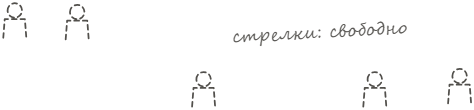
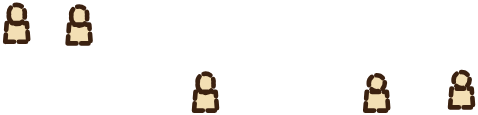
Make the empty rifle crew spot readable at the user's page scale

diff --git a/web/js/panel.js b/web/js/panel.js
@@ -122,9 +122,12 @@ export function makePanel(root, M, data, art, blueprint, flags, cards = {}) {
             view.side[n] = image(sheet, 'malakai_' + n, WEB_ART + 'malakai_' + n + '.png', q[0] * scale, q[1] * scale, q[2] * scale, q[3] * scale);
         }
     }
-    // The riflemen's place on the drawing (blueprint.json, crew_area): part of the drawing, not a button. Nobody: dashed pencil outlines at the rail and a
-    // pencil note; a crew: its figures in ink, a layer per kind; under the mouse thin dashed frames round the two rows, in soft ink. A click opens the
-    // choice. It lies over Malakai's own figure, which stands at one of the rifle places and is not among the layers' five.
+    // The riflemen's place on the drawing (blueprint.json, crew_area): part of the drawing, not a button, and seen as a place to click at the scale the
+    // page really has on a screen (about 0.6; tools/web_art.py sizes its lines and the tag's text for 0.5). Nobody: light cut-outs of the figures in a
+    // dashed ink line; a crew: its figures in ink, a layer per kind. Over the waist a tag on a leader, "Стрелки" and a sign in a ring: a plus while the
+    // place is empty, two arrows when a crew stands (it can be changed). Until the first choice the tag has a warm pulse, the same as Malakai's empty
+    // side. Under the mouse: dashed frames round the two rows in soft ink and the tag's slip lighter; the whole box takes the click, the gaps too.
+    // It lies over Malakai's own figure, which stands at one of the rifle places and is not among the layers' five.
     const ca = blueprint.crew_area, cbox = art.crew_area && art.crew_area.area;
     if (ca && cbox && data.groups[ca.group]) {
         const group = data.groups[ca.group], ax = cbox[0] * scale, ay = cbox[1] * scale;
@@ -134,23 +137,48 @@ export function makePanel(root, M, data, art, blueprint, flags, cards = {}) {
         area.SetInteractive(true);
         const lay = name => { const q = place(name); const c = image(area, name, WEB_ART + name + '.png', q[0] * scale - ax, q[1] * scale - ay, q[2] * scale, q[3] * scale); c.SetPassive(); return c; };
         const crew = view.crewArea = {spec: ca, area, group: ca.group, building: M.prefix + ca.building, layers: {}, open: false};
-        crew.hover = lay(`crew_${ca.group}_hover`);
-        area.SetHoverChild(crew.hover);
+        // the pulse first, under the tag: one picture a phase, switched by a timer (GAME: SetState by core:get_tm():repeat_real_callback, as the side's)
+        const g = art.crew_area.glow;
+        crew.glow = image(area, 'crew_glow', WEB_ART + 'crew_glow_0.png', g.box[0] * scale - ax, g.box[1] * scale - ay, g.box[2] * scale, g.box[3] * scale);
+        crew.glow.SetPassive();
+        crew.glow.phases = [];
+        for (let i = 1; i < g.phases; i++) {
+            const ph = image(crew.glow, 'phase_' + i, WEB_ART + `crew_glow_${i}.png`, 0, 0, g.box[2] * scale, g.box[3] * scale);
+            ph.SetVisible(false);
+            crew.glow.phases.push(ph);
+        }
+        crew.glow.img.style.visibility = 'visible';
+        crew.phase = 0;
+        setInterval(() => {
+            crew.phase = (crew.phase + 1) % g.phases;
+            crew.glow.img.style.visibility = crew.phase === 0 ? 'visible' : 'hidden';
+            crew.glow.phases.forEach((ph, i) => ph.SetVisible(crew.phase === i + 1));
+        }, art.crew_area.step_ms);
         crew.empty = lay(`crew_${ca.group}_empty`);
+        crew.tags = {plus: lay(`crew_${ca.group}_tag_plus`), swap: lay(`crew_${ca.group}_tag_swap`)};
+        // what shows under the mouse, in one holder: the frames and the lighter tag of the state
+        crew.hover = make(area, 'hover', 'hover_holder');
+        size(crew.hover, cbox[2] * scale, cbox[3] * scale);
+        crew.hover.SetPassive();
+        const inHover = name => { const q = place(name); return image(crew.hover, name, WEB_ART + name + '.png', q[0] * scale - ax, q[1] * scale - ay, q[2] * scale, q[3] * scale); };
+        inHover(`crew_${ca.group}_hover`);
+        crew.hoverTags = {plus: inHover(`crew_${ca.group}_tag_plus_hover`), swap: inHover(`crew_${ca.group}_tag_swap_hover`)};
+        area.SetHoverChild(crew.hover);
         for (const key of Object.keys(group.options)) if (key !== group.start && art.places[`crew_${ca.group}_${key}`]) crew.layers[key] = lay(`crew_${ca.group}_${key}`);
         // The choice: a window of the same family as the demo window of Malakai's side (the panel's dark backing, a brass head, the frame's edge),
         // under the place. Every kind the buildings can open, as the army panel's unit card in the crew's colour with the number aboard; a kind not
         // opened yet is grey under a padlock, as the game shows a unit that cannot be recruited yet, and its tooltip names the building.
         const options = M.crew_options(ca.group);
-        const pad = 16, slot_w = 88, pw = pad * 2 + slot_w * options.length, ph = pad + 28 + 8 + UNIT_H + 6 + 34 + 50 + 24 + pad;
-        const pick = image(sheet, 'mtb_crew_pick', LAYOUTS + 'backdrop.png', Math.min(ax, scheme_w - pw - 12), ay + cbox[3] * scale + 14, pw, ph);
+        // the frame's edge picture is 30 wide: everything keeps 26 clear of the window's sides, the foot line 30 of its lower edge
+        const pad = 26, slot_w = 106, pw = pad * 2 + slot_w * options.length, ph = pad + 28 + 4 + UNIT_H + 4 + 42 + 42 + 26;
+        const pick = image(sheet, 'mtb_crew_pick', LAYOUTS + 'backdrop.png', Math.min(ax, scheme_w - pw - 12), Math.min(ay + cbox[3] * scale + 14, scheme_h - ph - 6), pw, ph);      // under the place, inside the drawing
         pick.SetInteractive(true);      // a click on the window itself does nothing and does not reach the drawing
         crew.pick = pick;
-        text(pick, 'pick_head', 'text_head', pad, pad - 4, pw - 2 * pad - 30, 28, ca.head || group.name);
-        const cross = image(pick, CREW_CLOSE, 'ui/skins/default/icon_cross.png', pw - pad - 22, pad - 2, 22, 22);
+        text(pick, 'pick_head', 'text_head', pad, pad - 4, 240, 28, ca.head || group.name);
+        const cross = image(pick, CREW_CLOSE, 'ui/skins/default/icon_cross.png', pw - pad - 24, pad - 2, 22, 22);
         cross.SetInteractive(true);
         crew.slots = options.map((o, i) => {
-            const x = pad + i * slot_w + (slot_w - UNIT_W) / 2, y = pad + 28 + 8;
+            const x = pad + i * slot_w + (slot_w - UNIT_W) / 2, y = pad + 28 + 4;
             const card = o.unit_card ? unitCard(pick, CREW_PICK + o.key, x, y, o.unit_card, group.card_frame || 'gold')
                                      : image(pick, CREW_PICK + o.key, LAYOUTS + 'card_empty.png', x, y, UNIT_W, UNIT_H);
             card.SetInteractive(true);
@@ -159,11 +187,11 @@ export function makePanel(root, M, data, art, blueprint, flags, cards = {}) {
             slot.selected = image(card, 'selected', 'ui/skins/default/unit_card_selected.png', 0, 0, UNIT_W, UNIT_H);
             slot.padlock = image(card, 'padlock', 'ui/skins/default/padlock.png', (UNIT_W - 26) / 2, 46, 26, 33);
             for (const c of [slot.selected, slot.padlock]) c.SetPassive();
-            slot.name = text(pick, 'name_' + o.key, 'text_caption', pad + i * slot_w + 2, y + UNIT_H + 6, slot_w - 4, 32, '');
-            slot.money = text(pick, 'money_' + o.key, 'text_caption_grey', pad + i * slot_w + 2, y + UNIT_H + 6 + 34, slot_w - 4, 48, '');
+            slot.name = text(pick, 'name_' + o.key, 'text_caption', pad + i * slot_w + 2, y + UNIT_H + 4, slot_w - 4, 40, '');
+            slot.money = text(pick, 'money_' + o.key, 'text_caption_grey', pad + i * slot_w + 2, y + UNIT_H + 4 + 42, slot_w - 4, 40, '');
             return slot;
         });
-        crew.foot = text(pick, 'pick_foot', 'text_copper', pad, ph - pad - 18, pw - 2 * pad, 20, '');
+        crew.foot = text(pick, 'pick_foot', 'text_caption_copper', pad + 240, pad - 4, pw - 2 * pad - 240 - 34, 28, '');      // in the head's row, before the cross
         const edge = make(pick, 'pick_edge', 'frame_edge');
         size(edge, pw, ph);
         at(edge, 0, 0);
@@ -757,9 +785,13 @@ function refresh(view, M) {
         c.area.SetVisible(shown);
         if (!shown) c.open = false;
         c.pick.SetVisible(shown && c.open);
-        c.empty.SetVisible(!standing || standing.empty);
+        const nobody = !standing || standing.empty;
+        c.empty.SetVisible(nobody);
+        c.tags.plus.SetVisible(nobody); c.tags.swap.SetVisible(!nobody);
+        c.hoverTags.plus.SetVisible(nobody); c.hoverTags.swap.SetVisible(!nobody);
+        c.glow.SetVisible(M.crew_hint());
         for (const [key, layer] of Object.entries(c.layers)) layer.SetVisible(key === now);
-        c.area.SetTooltipText(c.open ? '' : !standing || standing.empty ? c.spec.free : `${standing.name}: ${standing.unit_card ? standing.unit_card.men + ' у бортов, ' : ''}содержание ${standing.upkeep} за ход`, true);
+        c.area.SetTooltipText(c.open || nobody ? '' : `${standing.name}: ${standing.unit_card ? standing.unit_card.men + ' у бортов, ' : ''}содержание ${standing.upkeep} за ход`, true);
         for (const slot of c.slots) {
             const o = options.find(x => x.key === slot.key), poor = o.unlocked && !o.empty && o.key !== now && M.game.treasury() < o.hire;
             slot.selected.SetVisible(o.key === now);
@@ -767,7 +799,7 @@ function refresh(view, M) {
             slot.card.ShaderTechniqueSet(o.unlocked ? 'normal_t0' : 'set_greyscale_t0');
             slot.card.SetImageColour(255, 255, 255, o.unlocked ? 255 : 0x80);
             slot.name.SetStateText(o.unlocked ? o.name : `[[col:grey]]${o.name}[[/col]]`);
-            slot.money.SetStateText(o.empty ? 'у бортов никого' : !o.unlocked ? `откроет «${o.building.name}»`
+            slot.money.SetStateText(o.empty ? 'у бортов никого' : !o.unlocked ? 'заперто'
                 : `${poor ? '[[col:red]]' : ''}найм ${o.hire}${poor ? '[[/col]]' : ''}\nза ход ${o.upkeep}`);
             slot.card.SetTooltipText(o.empty ? 'Пусто' : !o.unlocked ? `${o.name}\nОткроет постройка «${o.building.name}»` : `${o.name}\n${o.about || ''}`, true);
         }

diff --git a/web/js/main.js b/web/js/main.js
@@ -90,7 +90,7 @@ async function main() {
     M.on_change(update);
     // The page's state lives through a reload: localStorage, one key per stage; the buttons of the bar: build up to the selected building, forget all.
     const saveKey = 'mtb_web_state_' + stageName;
-    const save = () => { try { localStorage.setItem(saveKey, JSON.stringify({...game.snapshot(), side: M.malakai_side(), side_chosen: !M.side_hint(), selected: panel.view.selected, crew: M.crew_snapshot()})); } catch (e) { /* no storage: the page still works */ } };
+    const save = () => { try { localStorage.setItem(saveKey, JSON.stringify({...game.snapshot(), side: M.malakai_side(), side_chosen: !M.side_hint(), selected: panel.view.selected, crew: M.crew_snapshot(), crew_chosen: !M.crew_hint()})); } catch (e) { /* no storage: the page still works */ } };
     M.on_change(save);
     panel.view.onSelect = save;
     try {
@@ -100,6 +100,7 @@ async function main() {
             if (saved.side) M.set_side_silently(saved.side);
             M.set_side_chosen_silently(saved.side_chosen);
             M.set_crew_silently(saved.crew);
+            M.set_crew_chosen_silently(saved.crew_chosen);
             if (saved.selected && M.level(saved.selected)) panel.view.selected = saved.selected;
         }
     } catch (e) { /* a broken or missing save: start fresh */ }

diff --git a/web/js/barge_buildings.js b/web/js/barge_buildings.js
@@ -192,10 +192,15 @@ export function makeBuildings(data, game, parts) {
         if (game.treasury() < o.hire) { message = `Не хватает золота на «${o.name}»: найм ${o.hire}.`; fire(); return {ok: false, why: message}; }
         game.gold -= o.hire;        // GAME: cm:treasury_mod(faction, -hire)
         crew[group] = option;
+        crewChosen = true;
         message = o.empty ? 'Стрелки сошли с бортов.' : `«${o.name}» встают к бортам: найм ${o.hire}, содержание ${o.upkeep} за ход.`;
         fire();
         return {ok: true};
     };
+    // The hint: the place's tag glows until the player chooses a crew once (as the side's hint; GAME: cm:set_saved_value('mtb_crew_chosen', true)).
+    let crewChosen = false;
+    M.crew_hint = () => !crewChosen;
+    M.set_crew_chosen_silently = v => { crewChosen = !!v; };
     M.crew_snapshot = () => ({...crew});
     M.set_crew_silently = saved => { for (const [g, o] of Object.entries(saved || {})) if (data.groups[g] && data.groups[g].options[o]) crew[g] = o; };
     // a building that no longer stands takes its crew away

diff --git a/web/js/gameui.js b/web/js/gameui.js
@@ -32,8 +32,10 @@ const TEXT = {
     text_info_italic: {size: 16, line: 22, colour: '#A19883', align: 'center', valign: 'top', italic: true},
     text_info: {size: 16, line: 22, colour: '#FFF8D7', valign: 'top'},
     // a short caption under a card, centred, two lines at most
-    text_caption: {size: 12, colour: '#FFF8D7', align: 'center', valign: 'top'},
-    text_caption_grey: {size: 12, colour: '#8E8A80', align: 'center', valign: 'top'},
+    // (16 px, the game's body size on the screen: at the scale the page has on a screen, about 0.6, it is still 10 px)
+    text_caption: {size: 16, line: 20, colour: '#FFF8D7', align: 'center', valign: 'top'},
+    text_caption_grey: {size: 16, line: 20, colour: '#8E8A80', align: 'center', valign: 'top'},
+    text_caption_copper: {size: 16, colour: '#EBBD7C', align: 'right', nowrap: true},
     text_button: {size: 14, colour: '#FFF8D7', align: 'center', nowrap: true, font: 'header'},
     text_name_grey: {size: 14, colour: '#8E8A80', nowrap: true, font: 'header'},
     text_body: {size: 12, colour: '#FFF8D7', valign: 'top'},

diff --git a/web/css/page.css b/web/css/page.css
@@ -52,6 +52,8 @@ main { position: absolute; top: 41px; bottom: 0; left: 0; right: 0; display: fle
 .separator_skull { border-style: solid; border-color: transparent; border-width: 0 50px; border-image: url(/build/game/ui/skins/default/separator_skull2.png) 0 50 fill stretch; }
 .col_game_green { color: #91E732; }
 .col_game_red { color: #E22828; }
+/* a place of the drawing that takes a click: the hand over all of it, the gaps between its figures and its tag too */
+.hit_area { cursor: pointer; }
 .col_grey { color: #8e8a80; }
 .col_yellow { color: #ffd65a; }
 .col_green { color: #9bd36a; }

diff --git a/tools/web_art.py b/tools/web_art.py
@@ -915,82 +915,136 @@ def crew_figure(kind, x, y, s=0.9):
     return out
 
 
-def crew_ghost(x, y, s=0.9):
-    """A place nobody stands at, in pencil: the outline of a dwarf at the rail, dashed, as a draughtsman leaves room for a figure."""
-    d = (f"M{x - 8 * s:.1f} {y:.1f} L{x - 7 * s:.1f} {y - 13 * s:.1f} L{x + 7 * s:.1f} {y - 13 * s:.1f} L{x + 8 * s:.1f} {y:.1f} "
-         f"M{x - 5 * s:.1f} {y - 19 * s:.1f} A {5 * s:.1f} {5 * s:.1f} 0 1 1 {x + 5 * s:.1f} {y - 19 * s:.1f} A {5 * s:.1f} {5 * s:.1f} 0 1 1 {x - 5 * s:.1f} {y - 19 * s:.1f}")
-    return [art.path(d, 1.1, PENCIL, extra='stroke-dasharray="3 2.4"', op=0.9)]
+# The player's page is shown smaller than the game's 1600 x 900: about 0.6 on the user's screen, the drawing's unit then 0.62 px. What must be seen
+# at once is sized for a scale of 0.5: a line of CREW_LINE units is 1.5 px there, the tag's text of CREW_TEXT units 11 px.
+CREW_LINE, CREW_TEXT = 2.9, 21.5
+CREW_TAG = (478, 352, 150, 36)          # the tag over the waist, between the two nets: x, y, w, h
+LIGHT = "#f3dfb4"                       # clean light parchment: an empty place cut out of the drawing's tone
 
 
-def crew_note(x, y, text, size=11):
-    """A draughtsman's note in pencil, slanted, with a leader's dot."""
-    return [f'<text x="{x}" y="{y}" font-family="Segoe Script, Comic Sans MS, cursive" font-size="{size}" fill="{PENCIL}" opacity="0.85" transform="rotate(-3 {x} {y})">{text}</text>']
+def crew_ghost(x, y, s=0.9, variant="fill"):
+    """A place nobody stands at: the outline of a dwarf at the rail. fill: a light parchment cut-out under a firm dashed ink line, seen at any scale;
+    pencil: the first version, thin dashed graphite (too faint on the user's screen)."""
+    body = f"M{x - 8 * s:.1f} {y:.1f} L{x - 7 * s:.1f} {y - 13 * s:.1f} L{x + 7 * s:.1f} {y - 13 * s:.1f} L{x + 8 * s:.1f} {y:.1f} Z"
+    head = f"M{x - 5.5 * s:.1f} {y - 19 * s:.1f} A {5.5 * s:.1f} {5.5 * s:.1f} 0 1 1 {x + 5.5 * s:.1f} {y - 19 * s:.1f} A {5.5 * s:.1f} {5.5 * s:.1f} 0 1 1 {x - 5.5 * s:.1f} {y - 19 * s:.1f}"
+    if variant == "pencil":
+        return [art.path(body + " " + head, 1.1, PENCIL, extra='stroke-dasharray="3 2.4"', op=0.9)]
+    return [art.path(body + " " + head, CREW_LINE, art.INK, LIGHT, extra='stroke-dasharray="4.5 3"')]
 
 
-def crew_brackets(pad=0):
-    """Thin dashed frames round the two rows of places (the bow rail, the waist), as a dimensioned zone of a drawing."""
+def crew_brackets(pad=0, w=CREW_LINE, color=None, op=1.0):
+    """Dashed ink frames round the two rows of places (the bow rail, the waist), as a zone marked out on a drawing."""
     out = []
     for group in (CREW_PLACES[:2], CREW_PLACES[2:]):
         x0, x1 = min(x for x, _ in group) - 16 - pad, max(x for x, _ in group) + 16 + pad
         y0, y1 = min(y for _, y in group) - 30 - pad, max(y for _, y in group) + 5 + pad
-        out.append(art.path(art.poly([(x0, y0), (x1, y0), (x1, y1), (x0, y1)], True), 0.9, art.INK_SOFT, extra='stroke-dasharray="5 3.5"', op=0.8))
+        out.append(art.path(art.poly([(x0, y0), (x1, y0), (x1, y1), (x0, y1)], True), w, color or art.INK, extra='stroke-dasharray="9 6"', op=op))
     return out
 
 
-def crew_empty(variant="a"):
-    """The riflemen's place with nobody in it. a: dashed pencil outlines of the figures and a pencil note; b: dashed ink frames round the two rows
-    and the note; c: a small cross-in-circle station mark at each place and the note. a is the page's (see docs of the choice in the report)."""
-    note = crew_note(CREW_PLACES[2][0] + 18, CREW_PLACES[2][1] - 38, "стрелки: свободно")
+def crew_tag(sign="plus", light=False):
+    """The tag of the place, on a leader down to the waist: a slip of light parchment in an ink line with the group's name and a sign in a ring.
+    plus: nobody yet, the place waits for a choice (as an empty slot of the game); swap: a crew stands, it can be changed."""
+    x, y, w, h = CREW_TAG
+    fill = "#fff0cc" if light else LIGHT
+    out = [art.path(f"M{x + 74} {y + h} L{x + 71} {y + h + 30}", CREW_LINE * 0.8),          # the leader down to a place of the waist, clear of Malakai
+           art.dot(x + 71, y + h + 32, 3.2),
+           art.path(f"M{x + 6} {y} L{x + w} {y} L{x + w} {y + h} L{x + 6} {y + h} L{x} {y + h - 7} L{x} {y + 7} Z", CREW_LINE, art.INK, fill),
+           f'<text x="{x + 12}" y="{y + h - 10.5}" font-family="Palatino Linotype, Book Antiqua, Georgia, serif" font-weight="bold" font-size="{CREW_TEXT}" fill="{art.INK}">Стрелки</text>']
+    cx, cy, r = x + w - 19, y + h / 2, 11.5
+    out.append(art.circle(cx, cy, r, CREW_LINE * 0.8, art.INK, "#e9b96a"))
+    if sign == "plus":
+        out.append(art.path(f"M{cx - 6.5} {cy} L{cx + 6.5} {cy} M{cx} {cy - 6.5} L{cx} {cy + 6.5}", CREW_LINE))
+    else:       # two arrows, one each way: change
+        out.append(art.path(f"M{cx - 6.5} {cy - 3} L{cx + 5.5} {cy - 3} M{cx + 2} {cy - 6.5} L{cx + 6} {cy - 3} "
+                            f"M{cx + 6.5} {cy + 3.5} L{cx - 5.5} {cy + 3.5} M{cx - 2} {cy + 7} L{cx - 6} {cy + 3.5}", CREW_LINE * 0.75))
+    return out
+
+
+def crew_empty(variant="c"):
+    """The riflemen's place with nobody in it, three looks (build/web/shots/crew_spot_variants.png):
+    a: dashed ink frames of the zone and the tag; b: light cut-outs of the figures in a dashed ink line and the tag; c, the page's: b, and the warm
+    pulse round the tag until the first choice (crew_glow, the panel's timer)."""
+    figures = [g for x, y in CREW_PLACES for g in crew_ghost(x, y + 2)]
     if variant == "a":
-        return [g for x, y in CREW_PLACES for g in crew_ghost(x, y + 2)] + note
-    if variant == "b":
-        return crew_brackets() + note
-    out = []
-    for x, y in CREW_PLACES:
-        out.append(art.circle(x, y - 10, 6, 0.9, PENCIL, op=0.85))
-        out.append(art.path(f"M{x - 8} {y - 10} L{x + 8} {y - 10} M{x} {y - 18} L{x} {y - 2}", 0.7, PENCIL, op=0.85))
-    return out + note
+        return crew_brackets() + crew_tag("plus")
+    return figures + crew_tag("plus")
+
+
+def crew_glow(out_prefix="crew_glow"):
+    """The warm line round the tag while no crew was ever chosen: the same means and strength as the ring of Malakai's empty side (side_glow, variant a:
+    8 phases, alpha 0.45..0.85, the same orange), here a rounded frame hugging the tag. Returns its box in units of the drawing and the phases."""
+    import numpy as np
+    from PIL import Image
+    x, y, w, h = CREW_TAG
+    pad, k = 12, 2          # units round the tag, pixels a unit
+    W, H = (w + 2 * pad) * k, (h + 2 * pad) * k
+    yy, xx = np.mgrid[0:H, 0:W]
+    dx = np.maximum(np.abs(xx - W / 2 + 0.5) - (w * k / 2 - 6), 0)
+    dy = np.maximum(np.abs(yy - H / 2 + 0.5) - (h * k / 2 - 6), 0)
+    dist = np.hypot(dx, dy) - 6             # the distance from the tag's edge, rounded at the corners
+    ring = np.exp(-((dist - 5) / 4.2) ** 2)
+    phases, lo, hi, rgb = 8, 0.45, 0.85, (255, 160, 60)
+    for i in range(phases):
+        a = lo + (hi - lo) * (0.5 - 0.5 * math.cos(2 * math.pi * i / phases))
+        rgba = np.zeros((H, W, 4), np.uint8)
+        rgba[..., 0], rgba[..., 1], rgba[..., 2] = rgb
+        rgba[..., 3] = np.clip(ring * 255 * a, 0, 255).astype(np.uint8)
+        Image.fromarray(rgba, "RGBA").save(OUT / f"{out_prefix}_{i}.png", optimize=True)
+    return {"box": [x - pad, y - pad, w + 2 * pad, h + 2 * pad], "phases": phases}
 
 
 def crew_area(places):
-    """Layers of the riflemen's place: empty (pencil), the soft mark shown under the mouse, and the crew of each kind in ink."""
-    layer_plain("crew_rifles_empty", crew_empty("a"), places)
-    # under the mouse: the frames of the zone in thin soft ink, nothing brighter
-    layer_plain("crew_rifles_hover", crew_brackets(3), places)
+    """Layers of the riflemen's place: the empty figures, the tag in its two states and lit under the mouse, the frames shown under the mouse, the warm
+    pulse of the tag, and the crew of each kind in ink."""
+    layer_plain("crew_rifles_empty", [g for x, y in CREW_PLACES for g in crew_ghost(x, y + 2)], places)
+    layer_plain("crew_rifles_tag_plus", crew_tag("plus"), places)
+    layer_plain("crew_rifles_tag_swap", crew_tag("swap"), places)
+    # under the mouse: the frames of the zone in soft ink and the tag's slip lighter; nothing brighter than the drawing
+    layer_plain("crew_rifles_hover", crew_brackets(3, CREW_LINE * 0.8, art.INK_SOFT, 0.9), places)
+    layer_plain("crew_rifles_tag_plus_hover", crew_tag("plus", True), places)
+    layer_plain("crew_rifles_tag_swap_hover", crew_tag("swap", True), places)
     for kind in ("pirates", "quarrellers", "thunderers", "rakers", "torpedoes"):
         layer("crew_rifles_" + kind, [g for x, y in CREW_PLACES for g in crew_figure(kind, x, y + 2)], places)
-    return {"area": [min(x for x, _ in CREW_PLACES) - 20, min(y for _, y in CREW_PLACES) - 36, max(x for x, _ in CREW_PLACES) - min(x for x, _ in CREW_PLACES) + 40,
-                     max(y for _, y in CREW_PLACES) - min(y for _, y in CREW_PLACES) + 46]}
+    glow = crew_glow()
+    tx, ty, tw, th = CREW_TAG
+    x0, y0 = min(min(x for x, _ in CREW_PLACES) - 20, tx - 4), min(min(y for _, y in CREW_PLACES) - 36, ty - 4)
+    x1, y1 = max(max(x for x, _ in CREW_PLACES) + 20, tx + tw + 4), max(y for _, y in CREW_PLACES) + 10
+    return {"area": [x0, y0, x1 - x0, y1 - y0], "glow": glow, "step_ms": 110}
 
 
-def crew_area_variants():
-    """build/web/shots/crew_area_variants.png: the three looks of the empty place and the two crews on the base drawing, to choose from."""
-    from PIL import Image, ImageDraw
+def crew_area_variants(user_scale=0.6):
+    """build/web/shots/crew_spot_variants.png: the three looks of the empty place on the base drawing, at the page's scale 1 and at the user's."""
+    from PIL import Image, ImageDraw, ImageFont
     S = art.SCALE
     base = Image.open(OUT / "blueprint_base.png").convert("RGBA")
-    box = (round(250 * S), round(330 * S), round(680 * S), round(500 * S))
+    box = (round(230 * S), round(320 * S), round(700 * S), round(500 * S))
     w, h = round(art.DRAW_W * S), round(art.DRAW_H * S)
-    cells = [("А: карандашные контуры фигур (выбран)", crew_empty("a"), False), ("Б: пунктирные рамки зоны", crew_empty("b"), False), ("В: метки мест", crew_empty("c"), False),
-             ("А под мышью", crew_empty("a") + crew_brackets(3), False),
-             ("Мстители-пираты", [g for x, y in CREW_PLACES for g in crew_figure("pirates", x, y + 2)], True),
-             ("Арбалетчики", [g for x, y in CREW_PLACES for g in crew_figure("quarrellers", x, y + 2)], True)]
-    cw, ch = box[2] - box[0], box[3] - box[1]
-    sheet = Image.new("RGB", (cw * 2 + 30, (ch + 34) * 3 + 10), (20, 18, 15))
+    place = json.loads((OUT / "layers.json").read_text(encoding="utf-8"))["places"]["malakai_near"]
+    mal = Image.open(OUT / "malakai_near.png").convert("RGBA").resize((round(place[2] * S), round(place[3] * S)))
+    glow = Image.open(OUT / "crew_glow_4.png").convert("RGBA")
+    gb = crew_glow()["box"]
+    cells = [("А: пунктирная рамка зоны и бирка", crew_empty("a"), False), ("Б: светлые силуэты в чернильном пунктире и бирка", crew_empty("b"), False),
+             ("В (выбран): Б и тёплое свечение бирки до первого выбора", crew_empty("c"), True)]
+    one = 1.029 / S         # the drawing's picture is drawn at 1.6 px a unit, the page at scale 1 shows a unit as 1.029 px
+    cw, ch = round((box[2] - box[0]) * one), round((box[3] - box[1]) * one)
+    font = ImageFont.truetype("arial.ttf", 15)
+    sheet = Image.new("RGB", (cw + round(cw * user_scale) + 40, (ch + 30) * 3 + 10), (20, 18, 15))
     d = ImageDraw.Draw(sheet)
-    from PIL import ImageFont
-    font = ImageFont.truetype("arial.ttf", 16)
-    for i, (title, parts, ink) in enumerate(cells):
+    for i, (title, parts, lit) in enumerate(cells):
         im = base.copy()
-        im.alpha_composite(art.paint(f"web_crew_variant_{i}", art.svg_page(parts, filtered=ink), w, h))
-        mal = Image.open(OUT / "malakai_near.png").convert("RGBA")
-        place = json.loads((OUT / "layers.json").read_text(encoding="utf-8"))["places"]["malakai_near"]
-        im.alpha_composite(mal.resize((round(place[2] * S), round(place[3] * S))), (round(place[0] * S), round(place[1] * S)))
-        x, y = 10 + (i % 2) * (cw + 10), 10 + (i // 2) * (ch + 34)
-        d.text((x, y), title, fill=(235, 189, 124), font=font)
-        sheet.paste(im.crop(box).convert("RGB"), (x, y + 22))
+        if lit:
+            im.alpha_composite(glow.resize((round(gb[2] * S), round(gb[3] * S))), (round(gb[0] * S), round(gb[1] * S)))
+        im.alpha_composite(art.paint(f"web_crew_variant_{i}", art.svg_page(parts, filtered=False), w, h))
+        im.alpha_composite(mal, (round(place[0] * S), round(place[1] * S)))
+        crop = im.crop(box).convert("RGB")
+        y = 10 + i * (ch + 30)
+        d.text((10, y), title + "   |   масштаб 1 и масштаб пользователя " + str(user_scale), fill=(235, 189, 124), font=font)
+        sheet.paste(crop.resize((cw, ch), Image.LANCZOS), (10, y + 22))
+        sheet.paste(crop.resize((round(cw * user_scale), round(ch * user_scale)), Image.LANCZOS), (cw + 26, y + 22))
     target = REPO / "build" / "web" / "shots"
     target.mkdir(parents=True, exist_ok=True)
-    sheet.save(target / "crew_area_variants.png")
+    sheet.save(target / "crew_spot_variants.png")
 
 
 def tree_line():
